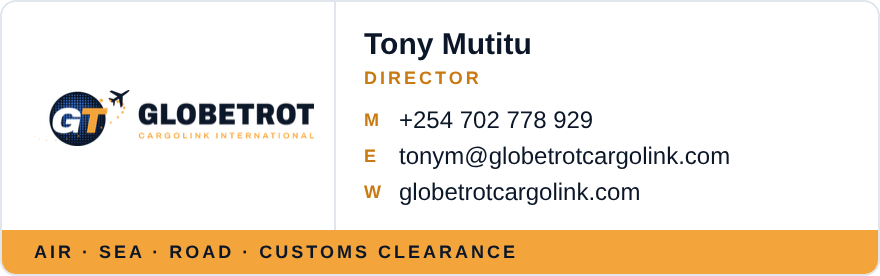
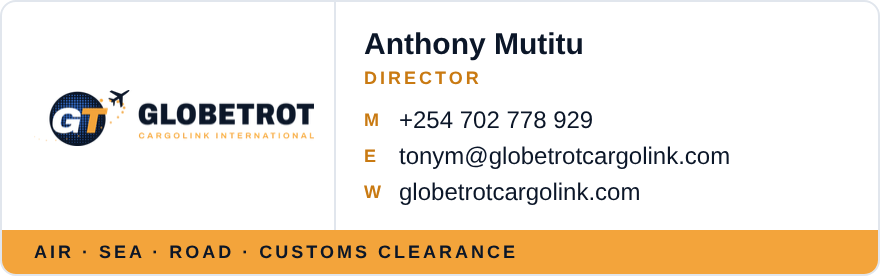
brand: signatures B dark/light — name Anthony Mutitu
Claude-Session: https://claude.ai/code/session_01W6msDu7YNfeoTYSuo1RCCk

Changed region(s): [[0.3989, 0.1159, 0.675, 0.2319]]

diff --git a/docs/brand/signatures/B-Light-Card.html b/docs/brand/signatures/B-Light-Card.html
@@ -1,7 +1,7 @@
-<!doctype html><html><head><meta charset="utf-8"><title>Tony Mutitu signature</title></head><body style="margin:0;padding:0;background:#ffffff;"><table cellpadding="0" cellspacing="0" border="0" width="440" bgcolor="#ffffff" style="border-collapse:separate;width:440px;background:#ffffff;border:1px solid #e1e6ed;border-radius:8px;"><tr>
+<!doctype html><html><head><meta charset="utf-8"><title>Anthony Mutitu signature</title></head><body style="margin:0;padding:0;background:#ffffff;"><table cellpadding="0" cellspacing="0" border="0" width="440" bgcolor="#ffffff" style="border-collapse:separate;width:440px;background:#ffffff;border:1px solid #e1e6ed;border-radius:8px;"><tr>
[1 lines of base64/hex data omitted]
 <td style="padding:12px 16px 10px 14px;vertical-align:middle;border-left:1px solid #e1e6ed;">
-<div style="font-family:Arial,Helvetica,sans-serif;font-size:15px;font-weight:bold;color:#0b1628;line-height:19px;">Tony Mutitu</div>
+<div style="font-family:Arial,Helvetica,sans-serif;font-size:15px;font-weight:bold;color:#0b1628;line-height:19px;">Anthony Mutitu</div>
 <div style="font-family:Arial,Helvetica,sans-serif;font-size:9px;font-weight:bold;letter-spacing:1.5px;color:#c97a12;line-height:14px;padding-bottom:5px;text-transform:uppercase;">Director</div>
 <table cellpadding="0" cellspacing="0" border="0"><tr><td style="font-family:Arial,Helvetica,sans-serif;font-size:9px;font-weight:bold;letter-spacing:1px;color:#c97a12;padding:1px 8px 1px 0;line-height:16px;">M</td><td style="font-family:Arial,Helvetica,sans-serif;font-size:12px;color:#0b1628;line-height:16px;"><a href="tel:+254702778929" style="color:#0b1628;text-decoration:none;">+254 702 778 929</a></td></tr><tr><td style="font-family:Arial,Helvetica,sans-serif;font-size:9px;font-weight:bold;letter-spacing:1px;color:#c97a12;padding:1px 8px 1px 0;line-height:16px;">E</td><td style="font-family:Arial,Helvetica,sans-serif;font-size:12px;color:#0b1628;line-height:16px;"><a href="mailto:tonym@globetrotcargolink.com" style="color:#0b1628;text-decoration:none;">tonym@globetrotcargolink.com</a></td></tr><tr><td style="font-family:Arial,Helvetica,sans-serif;font-size:9px;font-weight:bold;letter-spacing:1px;color:#c97a12;padding:1px 8px 1px 0;line-height:16px;">W</td><td style="font-family:Arial,Helvetica,sans-serif;font-size:12px;color:#0b1628;line-height:16px;"><a href="https://globetrotcargolink.com" style="color:#0b1628;text-decoration:none;">globetrotcargolink.com</a></td></tr></table></td></tr>
 <tr><td colspan="2" bgcolor="#f3a43b" style="background:#f3a43b;border-radius:0 0 7px 7px;padding:5px 16px;font-family:Arial,Helvetica,sans-serif;font-size:9px;font-weight:bold;letter-spacing:1.5px;color:#0b1628;line-height:12px;">AIR &middot; SEA &middot; ROAD &middot; CUSTOMS CLEARANCE</td></tr></table></body></html>

diff --git a/docs/brand/signatures/B-Night-Card.html b/docs/brand/signatures/B-Night-Card.html
@@ -1,7 +1,7 @@
-<!doctype html><html><head><meta charset="utf-8"><title>Tony Mutitu signature</title></head><body style="margin:0;padding:0;background:#ffffff;"><table cellpadding="0" cellspacing="0" border="0" width="440" bgcolor="#0b1628" style="border-collapse:separate;width:440px;background:#0b1628;border-radius:8px;"><tr>
+<!doctype html><html><head><meta charset="utf-8"><title>Anthony Mutitu signature</title></head><body style="margin:0;padding:0;background:#ffffff;"><table cellpadding="0" cellspacing="0" border="0" width="440" bgcolor="#0b1628" style="border-collapse:separate;width:440px;background:#0b1628;border-radius:8px;"><tr>
[1 lines of base64/hex data omitted]
 <td style="padding:12px 16px 10px 14px;vertical-align:middle;border-left:1px solid #22324c;">
-<div style="font-family:Arial,Helvetica,sans-serif;font-size:15px;font-weight:bold;color:#ffffff;line-height:19px;">Tony Mutitu</div>
+<div style="font-family:Arial,Helvetica,sans-serif;font-size:15px;font-weight:bold;color:#ffffff;line-height:19px;">Anthony Mutitu</div>
 <div style="font-family:Arial,Helvetica,sans-serif;font-size:9px;font-weight:bold;letter-spacing:1.5px;color:#f3a43b;line-height:14px;padding-bottom:5px;text-transform:uppercase;">Director</div>
 <table cellpadding="0" cellspacing="0" border="0"><tr><td style="font-family:Arial,Helvetica,sans-serif;font-size:9px;font-weight:bold;letter-spacing:1px;color:#f3a43b;padding:1px 8px 1px 0;line-height:16px;">M</td><td style="font-family:Arial,Helvetica,sans-serif;font-size:12px;color:#ffffff;line-height:16px;"><a href="tel:+254702778929" style="color:#ffffff;text-decoration:none;">+254 702 778 929</a></td></tr><tr><td style="font-family:Arial,Helvetica,sans-serif;font-size:9px;font-weight:bold;letter-spacing:1px;color:#f3a43b;padding:1px 8px 1px 0;line-height:16px;">E</td><td style="font-family:Arial,Helvetica,sans-serif;font-size:12px;color:#ffffff;line-height:16px;"><a href="mailto:tonym@globetrotcargolink.com" style="color:#ffffff;text-decoration:none;">tonym@globetrotcargolink.com</a></td></tr><tr><td style="font-family:Arial,Helvetica,sans-serif;font-size:9px;font-weight:bold;letter-spacing:1px;color:#f3a43b;padding:1px 8px 1px 0;line-height:16px;">W</td><td style="font-family:Arial,Helvetica,sans-serif;font-size:12px;color:#ffffff;line-height:16px;"><a href="https://globetrotcargolink.com" style="color:#ffffff;text-decoration:none;">globetrotcargolink.com</a></td></tr></table></td></tr>
 <tr><td colspan="2" bgcolor="#f3a43b" style="background:#f3a43b;border-radius:0 0 8px 8px;padding:5px 16px;font-family:Arial,Helvetica,sans-serif;font-size:9px;font-weight:bold;letter-spacing:1.5px;color:#0b1628;line-height:12px;">AIR &middot; SEA &middot; ROAD &middot; CUSTOMS CLEARANCE</td></tr></table></body></html>
